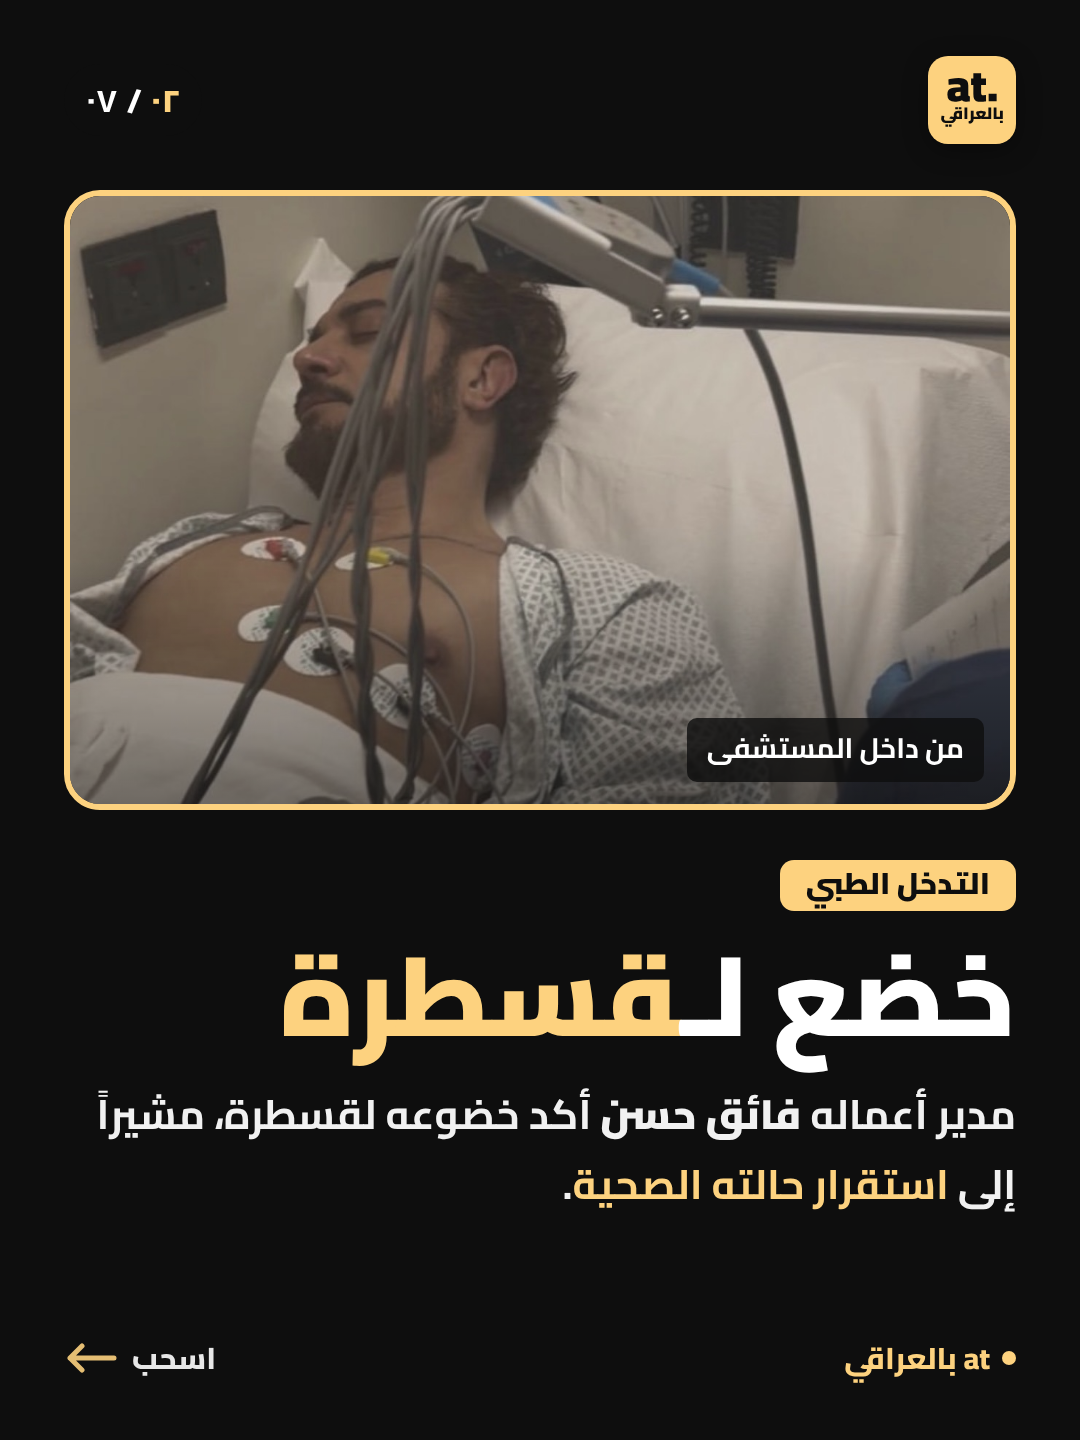
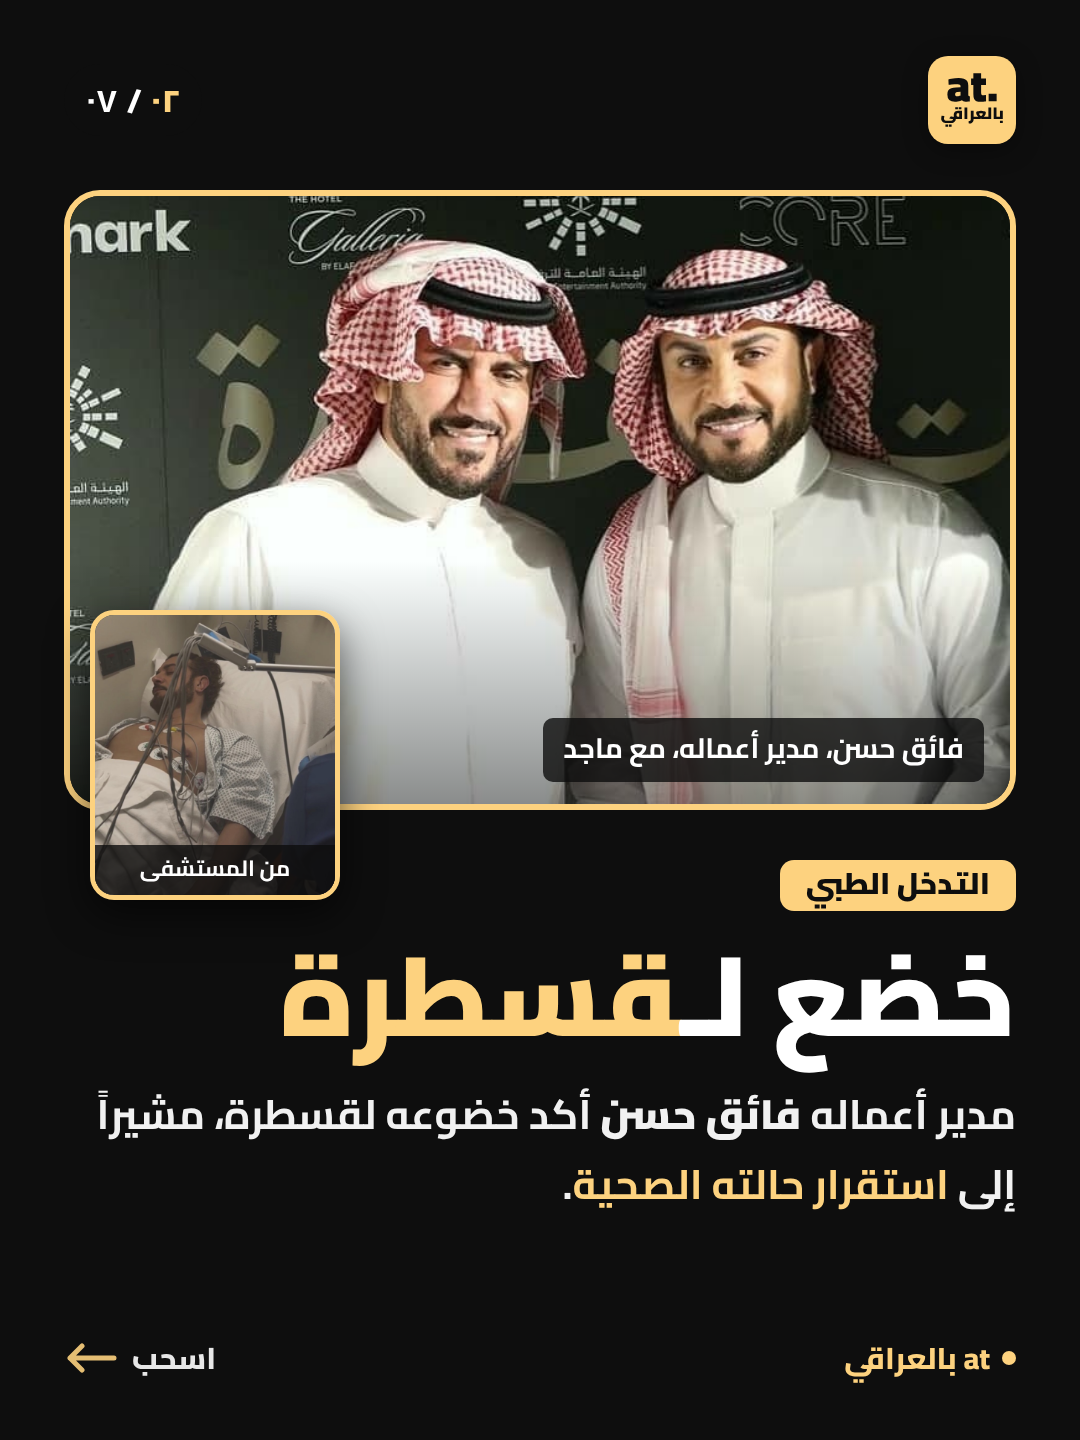
Add manager and director photos to carousel slides 2 and 3
Claude-Session: https://claude.ai/code/session_01RScGTdhGvBmbeKDUXMKRjS

diff --git a/carousels/majed-health/carousel.html b/carousels/majed-health/carousel.html
@@ -38,7 +38,10 @@ h1,h2{font-weight:900;line-height:1.12}
 
 /* 2 medical */
 #s2 .card{position:absolute;top:190px;right:64px;left:64px;height:620px;border-radius:36px;overflow:hidden;border:6px solid var(--y)}
-#s2 .card .ph{inset:0;background-image:url(img/hospital.jpg);background-position:50% 18%;filter:saturate(.85)}
+#s2 .card .ph{inset:0;background-image:url(img/manager.jpg);background-position:50% 30%}
+#s2 .inset{position:absolute;top:610px;left:90px;width:250px;height:290px;border-radius:24px;overflow:hidden;border:5px solid var(--y);z-index:7;box-shadow:0 14px 40px rgba(0,0,0,.6)}
+#s2 .inset .ph{inset:0;background-image:url(img/hospital.jpg);background-position:50% 20%}
+#s2 .inset span{position:absolute;bottom:0;right:0;left:0;background:rgba(14,14,14,.8);font-size:22px;font-weight:700;text-align:center;padding:2px 0 6px}
 #s2 .card .shade{background:linear-gradient(180deg,rgba(0,0,0,.0) 60%,rgba(0,0,0,.45))}
 #s2 .tag{position:absolute;bottom:22px;right:26px;background:rgba(14,14,14,.8);color:#fff;font-weight:700;font-size:28px;padding:4px 20px 8px;border-radius:10px}
 #s2 .wrap{top:860px}
@@ -46,7 +49,8 @@ h1,h2{font-weight:900;line-height:1.12}
 #s2 .body{max-width:100%}
 
 /* 3 reassure */
-#s3 .ph{inset:0 0 auto 0;height:1000px;background-image:url(img/s4.jpg);background-position:50% 12%}
+#s3 .ph{inset:0 0 auto 0;height:1000px;background-image:url(img/director.jpg);background-position:50% 22%}
+#s3 .cap{position:absolute;top:790px;right:64px;z-index:6;background:rgba(14,14,14,.8);font-weight:700;font-size:28px;padding:4px 20px 8px;border-radius:10px}
 #s3 .shade{background:linear-gradient(180deg,rgba(14,14,14,.55) 0,rgba(14,14,14,0) 22%,rgba(14,14,14,0) 45%,#0e0e0e 72%)}
 #s3 .wrap{bottom:150px}
 #s3 h1{font-size:156px;color:var(--y);margin:20px 0 14px;line-height:1.0}
@@ -122,7 +126,8 @@ h1,h2{font-weight:900;line-height:1.12}
 <!-- 2 -->
 <section class="slide" id="s2">
  <div class="hdr"><img src="logo.svg" alt=""><div class="cnt"><b>٠٢</b> / ٠٧</div></div>
- <div class="card"><div class="ph"></div><div class="shade"></div><div class="tag">من داخل المستشفى</div></div>
+ <div class="card"><div class="ph"></div><div class="shade"></div><div class="tag">فائق حسن، مدير أعماله، مع ماجد</div></div>
+ <div class="inset"><div class="ph"></div><span>من المستشفى</span></div>
  <div class="wrap">
   <span class="kick">التدخل الطبي</span>
   <h1>خضع لـ<span class="hl">قسطرة</span></h1>
@@ -134,6 +139,7 @@ h1,h2{font-weight:900;line-height:1.12}
 <!-- 3 -->
 <section class="slide" id="s3">
  <div class="ph"></div><div class="shade"></div>
+ <div class="cap">علاء الأنصاري مع ماجد</div>
  <div class="hdr"><img src="logo.svg" alt=""><div class="cnt"><b>٠٣</b> / ٠٧</div></div>
  <div class="wrap">
   <span class="kick">تطمين الجمهور</span>
